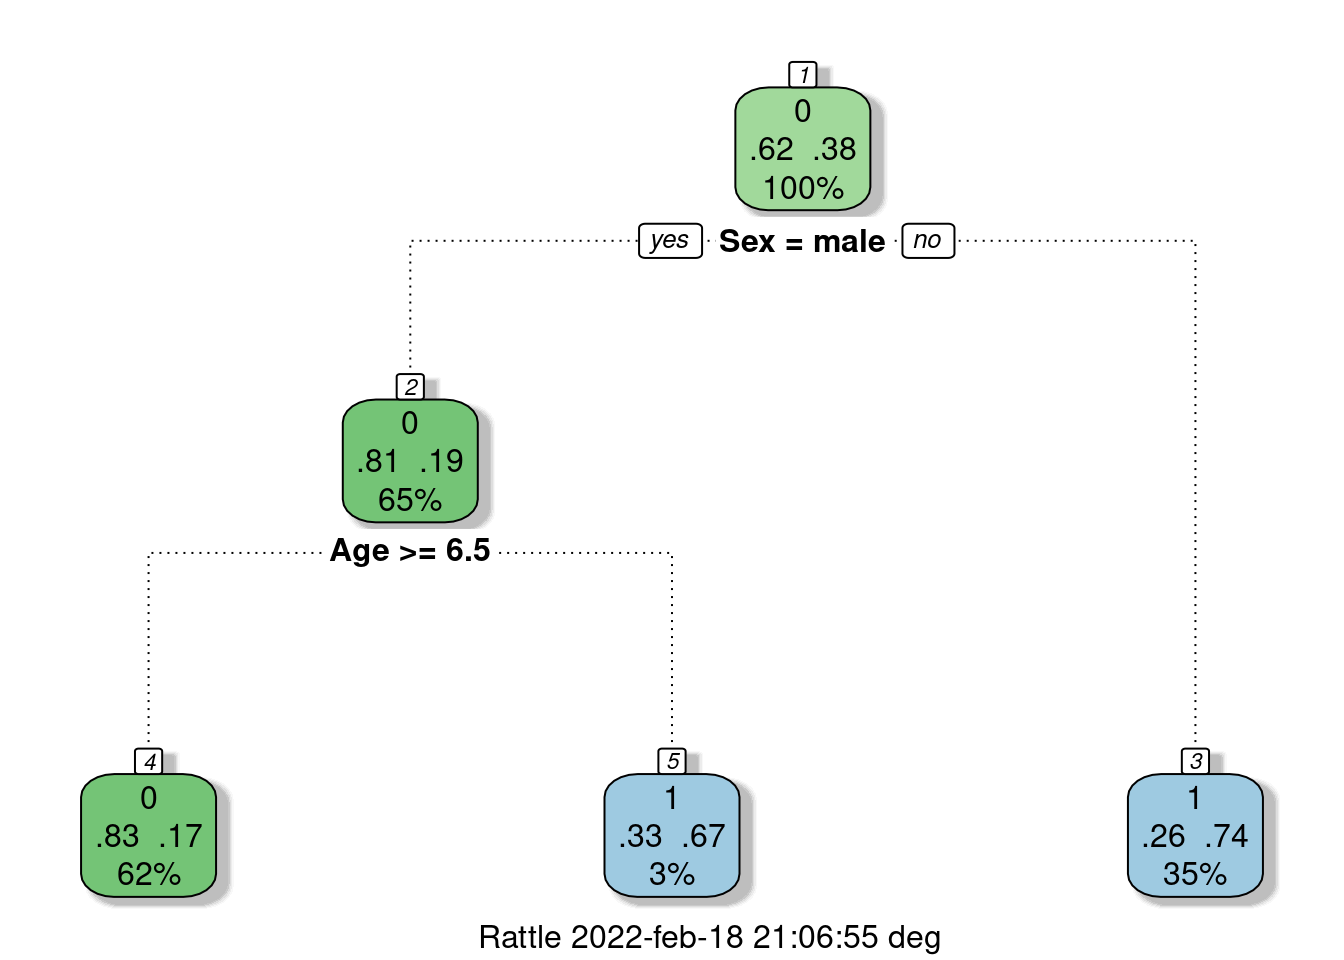
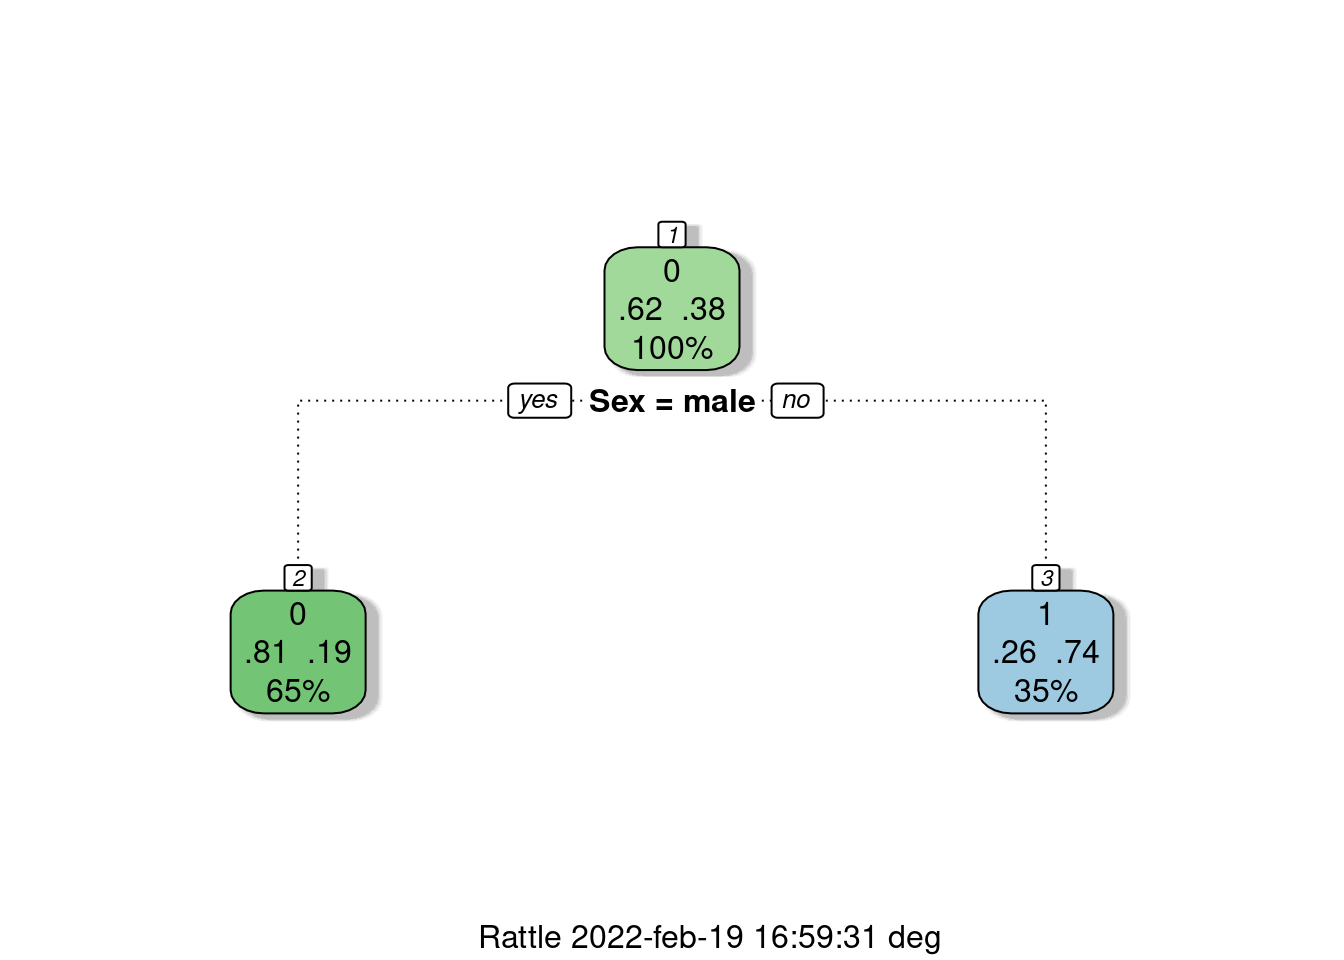
ajustes a arbol de decisiones

diff --git a/Guia202.html b/Guia202.html
@@ -801,11 +801,11 @@ Versión 5.4.0 Copyright (c) 2006-2020 Togaware Pty Ltd.
 Escriba &#39;rattle()&#39; para agitar, sacudir y  rotar sus datos.</code></pre>
 <pre class="r"><code>library(rpart.plot)
 
-arbol=rpart( formula = Survived ~ Sex + Age,
+arbol=rpart( formula = Survived ~ Sex,
              data = titanic_train,
              method = &quot;class&quot;)
 fancyRpartPlot(arbol)</code></pre>
-<p><img src="Guia202_files/figure-html/unnamed-chunk-2-1.png" width="672" /> <br/> Código tomado de : <a href="https://www.youtube.com/watch?v=t0lmtrm_aa0" class="uri">https://www.youtube.com/watch?v=t0lmtrm_aa0</a></p>
+<p><img src="Guia202_files/figure-html/unnamed-chunk-2-1.png" width="672" /> <br/> Código basado en: <a href="https://www.youtube.com/watch?v=t0lmtrm_aa0" class="uri">https://www.youtube.com/watch?v=t0lmtrm_aa0</a></p>
 <p><br/><br/></p>
 <p><strong>Resultados del árbol</strong></p>
 <p><strong>Eventos</strong> : + <span class="math inline">\(S\)</span> : sobrevive + <span class="math inline">\(S&#39;\)</span> : no sobrevive + <span class="math inline">\(H\)</span> : hombre + <span class="math inline">\(M\)</span> : mujer</p>
@@ -820,6 +820,23 @@ fancyRpartPlot(arbol)</code></pre>
 <li><span class="math inline">\(P(S&#39;|H) = 0.81\)</span></li>
 <li><span class="math inline">\(P(S|H) = 0.19\)</span></li>
 </ul>
+<pre class="r"><code>t= table(titanic_train$Survived,
+         titanic_train$Sex)       # construcción tabla cruzada
+
+t = t %&gt;%  
+      prop.table() %&gt;% 
+      addmargins() %&gt;% 
+      round(.,4)
+
+rownames(t)=c(&quot;Died&quot;,&quot;Survived&quot;, &quot;Sum&quot;)
+
+      
+t        # tabla de probabilidades</code></pre>
+<pre><code>          
+           female   male    Sum
+  Died     0.0909 0.5253 0.6162
+  Survived 0.2615 0.1223 0.3838
+  Sum      0.3524 0.6476 1.0000</code></pre>
 <p><strong>Referencias sobre árboles de decisión </strong></p>
 <ul>
 <li><p><a href="https://rpubs.com/jboscomendoza/arboles_decision_clasificacion" class="uri">https://rpubs.com/jboscomendoza/arboles_decision_clasificacion</a></p></li>
